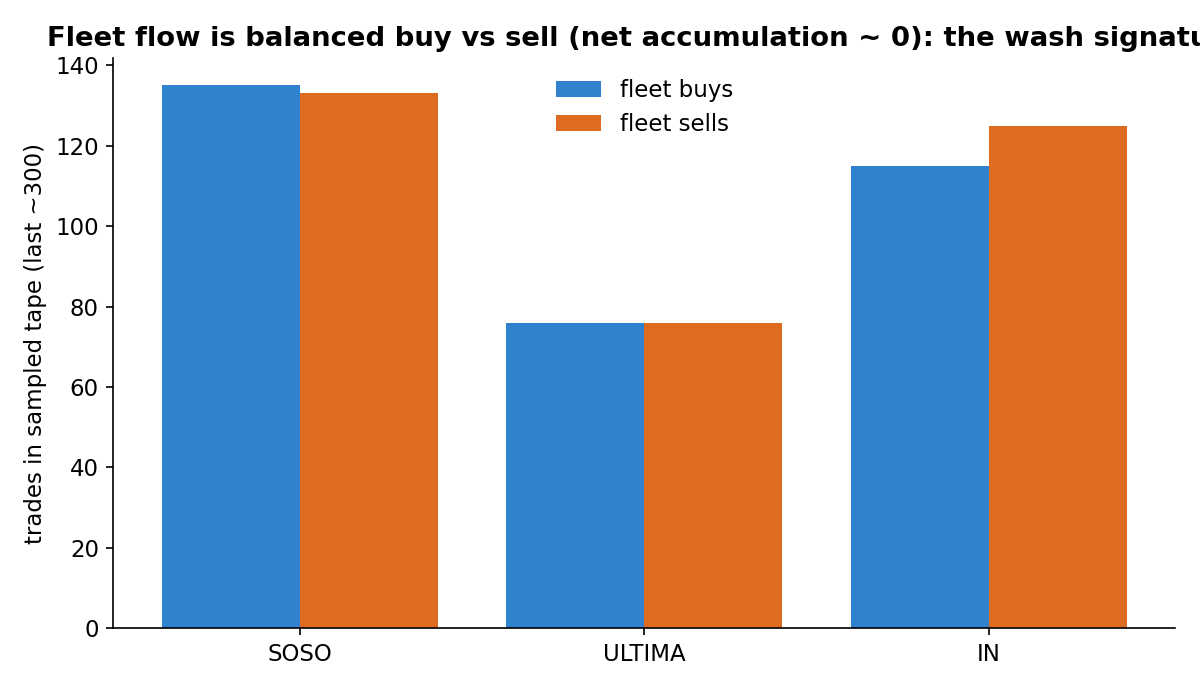
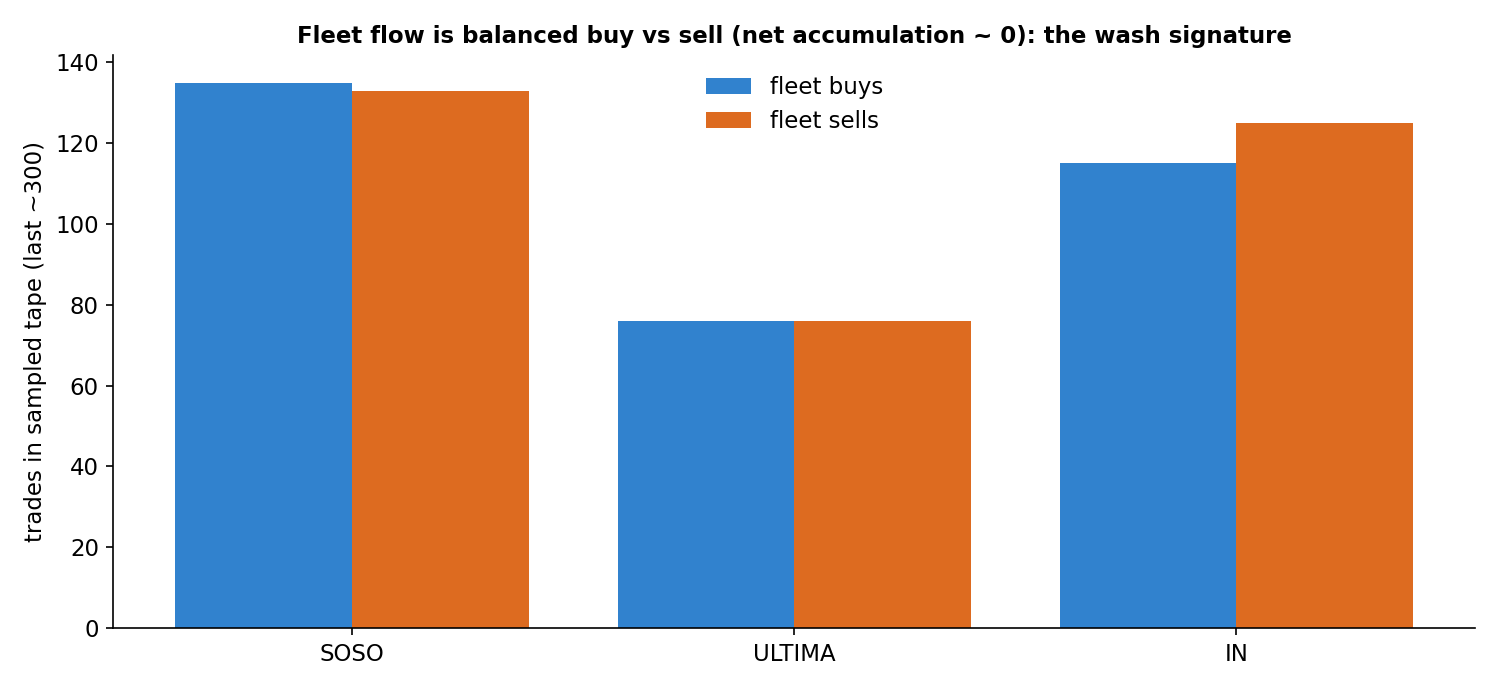
Audit round 2: fix pipeline idempotency, fig title clip, unbacked number
- Split the report pipeline: aggregate.py now writes data/screen.json and finalize_report.py
  reads it, so the two stages no longer clobber the same file with different schemas;
  finalize is now idempotent (re-run reproduces report.json exactly).
- Fix fig4 title clipped off the right edge (widen figure).
- Drop an unbacked '~233 trades' figure from the post (its probe script was removed);
  keep the mechanical-uniformity claim. Reword 'four public sources' (it listed five tools).
- README updated for the screen.json/report.json split.

diff --git a/make_figures.py b/make_figures.py
@@ -71,12 +71,12 @@ pools = [tok(c["name"]) for c in conf]
 buys = [sum(a[1] for a in det[tok(c["name"])]["wallets"]) for c in conf]
 sells = [sum(a[2] for a in det[tok(c["name"])]["wallets"]) for c in conf]
 x = range(len(pools)); wd = 0.4
-fig, ax = plt.subplots(figsize=(8, 4.6))
+fig, ax = plt.subplots(figsize=(10, 4.6))
 ax.bar([i-wd/2 for i in x], buys, wd, label="fleet buys", color="#3182ce")
 ax.bar([i+wd/2 for i in x], sells, wd, label="fleet sells", color="#dd6b20")
 ax.set_xticks(list(x)); ax.set_xticklabels(pools)
 ax.set_ylabel("trades in sampled tape (last ~300)")
-ax.set_title("Fleet flow is balanced buy vs sell (net accumulation ~ 0): the wash signature", fontweight="bold")
+ax.set_title("Fleet flow is balanced buy vs sell (net accumulation ~ 0): the wash signature", fontweight="bold", fontsize=11)
 ax.legend(frameon=False)
 plt.tight_layout(); plt.savefig(os.path.join(FIG, "fig4_fleet_balance.png"), dpi=150); plt.close()
 

diff --git a/aggregate.py b/aggregate.py
@@ -95,7 +95,7 @@ report = dict(candidates_screened=scored, flagged_by_mechanics=flagged_screen,
                eoa_status=r["eoa_status"], fleet_vol_share=r["fleet_vol_share"],
                active_days=(r.get("ohlcv") or {}).get("active_days"), ds_daily=r["ds_daily"],
                manuf_verified=r["manuf_verified"], addr=r["addr"]) for r in sorted(confirmed, key=lambda x:-x["manuf_verified"])])
-json.dump(report, open(os.path.join(HERE, "data", "report.json"), "w"), indent=1)
+json.dump(report, open(os.path.join(HERE, "data", "screen.json"), "w"), indent=1)  # screen layer; finalize_report.py builds the on-chain report.json from this
 
 print("=== Fabricated DEX volume - VERIFIED (cross-sourced + eth_getCode gated) ===")
 print(f"candidates screened: {scored} | flagged by mechanics: {flagged_screen} | sustained (>=7d): {len(sustained)}")

diff --git a/finalize_report.py b/finalize_report.py
@@ -5,7 +5,7 @@ comparison. PYTH is moved to a window-artifact exclusion (on-chain full-day flee
 Deterministic, offline, from committed data."""
 import json, os, collections
 HERE = os.path.dirname(os.path.abspath(__file__)); DATA = os.path.join(HERE, "data")
-rep = json.load(open(os.path.join(DATA, "report.json")))
+rep = json.load(open(os.path.join(DATA, "screen.json")))  # screen layer from aggregate.py (never overwrite report.json's own inputs)
 oc = json.load(open(os.path.join(DATA, "onchain_fullday.json")))
 pyth = json.load(open(os.path.join(DATA, "pyth_onchain.json")))
 worst = {w["name"].split("/")[0].strip(): w for w in rep["worst"]}

diff --git a/README.md b/README.md
@@ -72,7 +72,7 @@ python3 attribution.py
 ```
 runner.py            screen + lockstep-bot detector (crawl/score, resumable)
 eoa_check.py         eth_getCode: per-wallet EOA vs contract
-aggregate.py         volume + contract filters (screen funnel, exclusions)
+aggregate.py         volume + contract filters (screen funnel, exclusions) -> data/screen.json
 onchain_fullday.py   Bitquery: direct full-day on-chain fabricated volume (EVM)
 helius_pyth.py       Helius: same on-chain check for the Solana candidate
 net_inventory.py     fleet token holdings vs daily volume (wash vs market-making)
@@ -80,9 +80,10 @@ sample_windows.py    multi-window fleet-share robustness
 finalize_report.py   assemble report.json from the on-chain measurements
 attribution.py       funding-graph tracer (relay/peel chains, hubs, reuse)
 verify.py            re-derive and assert every published number (CI entry point)
-data/                pools/scores/flagged_detail jsonl; report.json; eoa_check,
-                     onchain_fullday, pyth_onchain, net_inventory, window_robustness,
-                     dexscreener_snapshot, live_recheck, attribution json
+data/                pools/scores/flagged_detail jsonl; screen.json (aggregate) ->
+                     report.json (finalize, on-chain headline); eoa_check, onchain_fullday,
+                     pyth_onchain, net_inventory, window_robustness, dexscreener_snapshot,
+                     live_recheck, attribution json
 figures/             published figures
 post/                the market-health post as a page bundle (index.md + figures)
 .github/workflows/   CI running verify.py on every push

diff --git a/post/index.md b/post/index.md
@@ -19,7 +19,7 @@ The filters carry the argument. First, the loudest reported numbers are fictiona
 
 ## Data and scope
 
-Four public sources, none requiring a paid tier:
+Public sources, none requiring a paid tier:
 
 - **GeckoTerminal** for the pool universe and the per-trade tape (trader address, side, USD size, transaction hash, timestamp).
 - **DexScreener** as an independent second measurement of each pool's daily volume and liquidity.
@@ -82,7 +82,7 @@ A legitimate market maker holds inventory to quote both sides; a wash fleet cycl
 
[1 lines of base64/hex data omitted]
 
-**ULTIMA / USDT (BNB Chain, Uniswap).** Eleven externally-owned wallets, 42 percent of the pool over 24 hours, each executing an almost identical count of trades per day (about 233), a mechanical uniformity no organic trader shows. What makes ULTIMA the clearest attribution case is its funding, below.
+**ULTIMA / USDT (BNB Chain, Uniswap).** Eleven externally-owned wallets, 42 percent of the pool over 24 hours, each executing an almost identical number of trades per day, a mechanical uniformity no organic trader shows. What makes ULTIMA the clearest attribution case is its funding, below.
 
[1 lines of base64/hex data omitted]
 